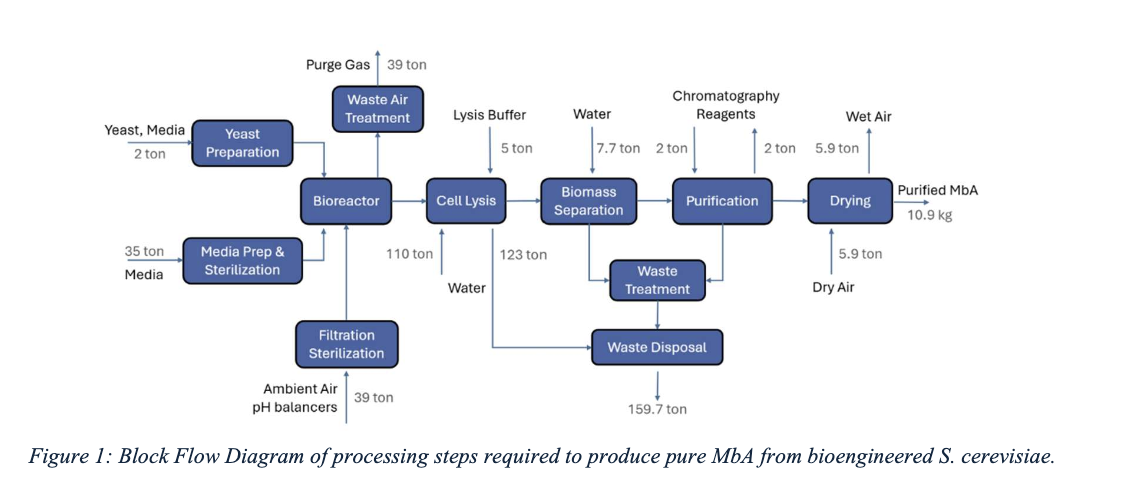
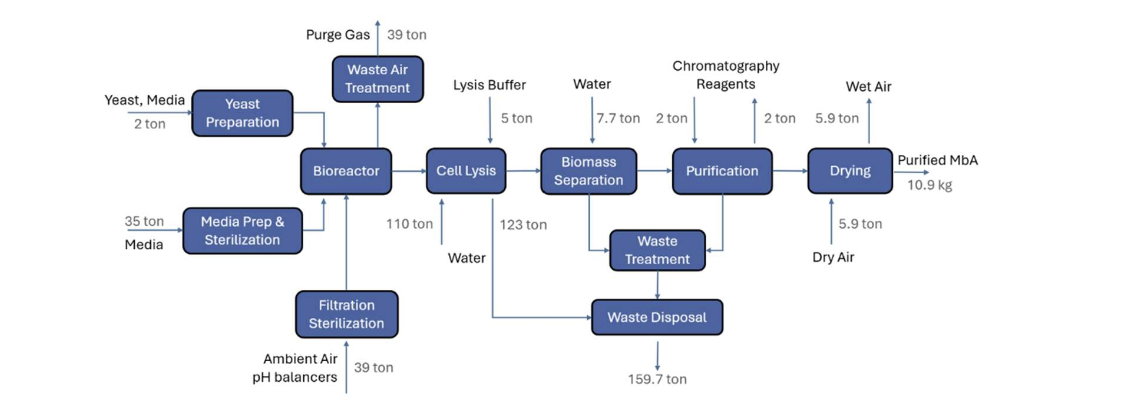
Capstone page polish: crop baked-in caption from block flow diagram
Claude-Session: https://claude.ai/code/session_01RRyVQH5CW43uV76jxagr7P

diff --git a/projects/capstone-montbretin.html b/projects/capstone-montbretin.html
@@ -69,7 +69,7 @@
     <p>Output: about 11 kg of MbA per batch, 333 batches and roughly 3,700 kg a year, or about 74 million 50 mg doses.</p>
     <figure>
       <img src="../assets/media/capstone/block-flow-diagram.png" data-zoom alt="Block flow diagram: yeast preparation, media sterilization and air filtration feed the bioreactor, followed by cell lysis, biomass separation, purification and drying to purified MbA, with waste air, waste treatment and disposal streams.">
-      <figcaption>Block flow diagram, per batch (team figure).</figcaption>
+      <figcaption>Block flow diagram: steps to produce purified MbA from bioengineered <em>S. cerevisiae</em>, with flows per batch (team figure).</figcaption>
     </figure>
   </div>
 
